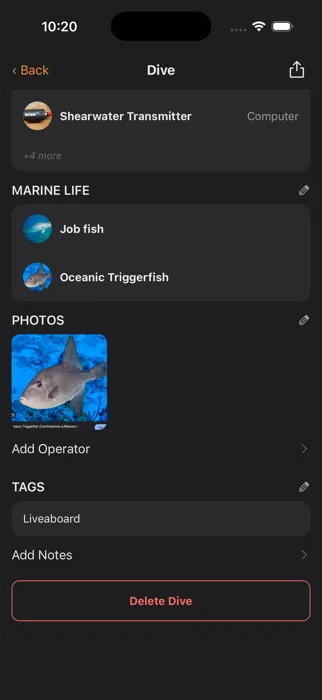
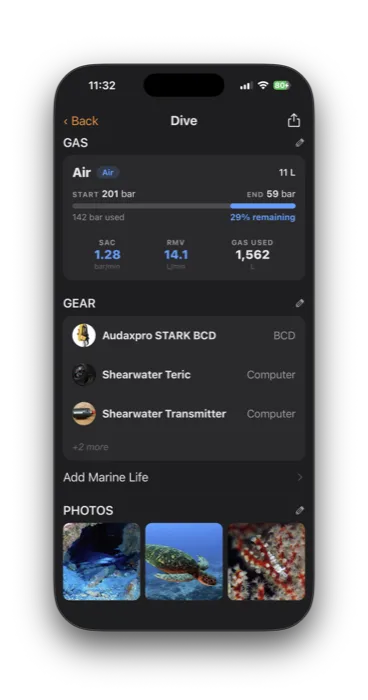
content+fix: address second review pass from the owner
Five fixes/changes from the owner's local browser review of the previous round:

1) System requirements: macOS 12+ -> 15+ (actual minimum for the
   Xcode-compiled build); removed 'Signed & Notarized' from the hero
   meta line and the closing requirements line (table-stakes for any
   distributed Mac app, not worth calling out as a feature).

2) New 'Ready for Instagram' essentials card — surfaces the existing,
   shipped Instagram dive-photo sharing feature. Uses a plain
   share-out glyph rather than the Instagram logo (avoids brand/
   trademark issues on a third-party marketing page).

3) Sync section polish: .syncarrow no longer forces
   text-transform:uppercase, so 'Synced via iCloud' renders in
   sentence case as authored. Swapped the custom two-arrow glyph for
   Phosphor's ArrowsClockwise (regular weight, MIT-licensed, vendored
   inline). Centered the three vendor-chip labels+arrows in the No
   Lock-In section to match the centered 'One Skooba logbook' pill
   below them.

4) img/sync-mobile.webp replaced with a real Gas/Gear/Photos
   dive-detail screenshot (owner-provided, owner-reviewed) — alt text
   updated to match.

5) The world footprint map is no longer a JS-generated illustrative
   dot map; it's now a real satellite map image (img/worldmap.webp,
   owner-provided) with per-country dive-count pins. Removed the
   ~25-line map-generation IIFE and the now-unused #worldmap SVG
   target + .maplabel CSS rule as dead code. This is a deliberate,
[…]

diff --git a/index.html b/index.html
@@ -96,7 +96,7 @@
   .spot p{color:var(--muted);margin-top:15px;font-size:16px}
   /* vendor lock-in diagram */
   .vendors{display:flex;flex-direction:column;gap:12px;align-items:stretch}
-  .vchip{display:flex;align-items:center;justify-content:space-between;gap:12px;padding:14px 18px;border-radius:12px;border:1px solid var(--hair-2);background:rgba(255,255,255,.02);font-family:var(--font-mono);font-size:13.5px;color:var(--muted)}
+  .vchip{display:flex;align-items:center;justify-content:center;gap:12px;padding:14px 18px;border-radius:12px;border:1px solid var(--hair-2);background:rgba(255,255,255,.02);font-family:var(--font-mono);font-size:13.5px;color:var(--muted)}
   .vchip .arrow{color:var(--faint);font-size:15px}
   .vconverge{display:flex;align-items:center;justify-content:center;gap:14px;margin-top:6px;padding:16px;border-radius:12px;border:1px solid var(--orange-line);background:var(--orange-soft);font-family:var(--font-display);font-weight:600;color:var(--orange-2)}
   .vconverge svg{width:20px;height:20px}
@@ -104,7 +104,7 @@
   .syncflow{display:flex;align-items:center;justify-content:center;gap:22px;flex-wrap:wrap}
   .syncflow .device-phone-static{position:relative;right:auto;bottom:auto;width:34%;min-width:150px;max-width:220px;border-radius:24px;overflow:hidden;border:2px solid var(--hair-2);box-shadow:0 30px 60px -20px rgba(0,0,0,.7);background:#091628}
   .syncflow .device{width:52%;min-width:260px}
-  .syncarrow{display:flex;flex-direction:column;align-items:center;gap:6px;color:var(--cyan);font-family:var(--font-mono);font-size:11px;letter-spacing:.1em;text-transform:uppercase}
+  .syncarrow{display:flex;flex-direction:column;align-items:center;gap:6px;color:var(--cyan);font-family:var(--font-mono);font-size:12px;letter-spacing:.02em}
   .syncarrow svg{width:26px;height:26px}
   @media(max-width:760px){.syncflow{flex-direction:column}.syncflow .device,.syncflow .device-phone-static{width:80%;max-width:340px}}
   /* milestone panel */
@@ -123,8 +123,7 @@
   /* world map */
   .mapwrap{margin-top:44px;border-radius:22px;border:1px solid var(--hair);overflow:hidden;position:relative;
     background:radial-gradient(900px 420px at 50% 40%,rgba(79,214,230,.06),transparent 70%),linear-gradient(180deg,#0b1c30,#081524)}
-  .mapwrap svg{display:block;width:100%;height:auto}
-  .maplabel{font-family:var(--font-mono);font-size:11px;fill:var(--muted)}
+  .mapwrap img{display:block;width:100%;height:auto}
   .map-stats{display:flex;gap:0;justify-content:center;flex-wrap:wrap;margin-top:22px;border:1px solid var(--hair);border-radius:14px;overflow:hidden;background:rgba(255,255,255,.015)}
   .map-stats div{padding:15px 26px;border-right:1px solid var(--hair);text-align:center;flex:1 1 auto}
   .map-stats div:last-child{border-right:0}
@@ -197,7 +196,6 @@
       <p class="lede anim a3">A native logbook that captures every dive with real precision — on your Mac and in your pocket — then gives your memories back to you: the milestones, the places, the firsts that made each one matter.</p>
       <div class="hero-meta anim a4">
         <span><b>Mac</b>&nbsp;&amp;&nbsp;<b>iPhone</b></span><span class="dot"></span>
-        <span>Signed&nbsp;&amp;&nbsp;Notarized</span><span class="dot"></span>
         <span><b>English</b>&nbsp;·&nbsp;<b>繁體中文</b></span>
       </div>
       <div class="cta-row anim a5">
@@ -259,9 +257,9 @@
       <p>Surface, and it's already half-logged. Pull the dive off your computer on your phone, drop a pin with your phone's own GPS even when your dive computer has none, jot down what you saw while it's fresh, and snap a photo. Get home, open Skooba on your Mac, and that dive is already there — synced through your own iCloud. Round it out at a proper desk: the marine life you spotted, the gear you dove in, who was down there with you, and the story worth remembering. Change anything, and it syncs straight back to your phone.</p>
     </div>
     <div class="syncflow rise d1" style="margin-top:40px">
-      <div class="device-phone-static"><img class="device-img" src="img/sync-mobile.webp" alt="A dive open on Skooba for iPhone, with the dive computer, marine life sightings, a photo and a tag already logged" /></div>
+      <div class="device-phone-static"><img class="device-img" src="img/sync-mobile.webp" alt="A dive open on Skooba for iPhone, showing gas usage, gear logged for the dive, and photos from underwater" /></div>
       <div class="syncarrow">
-        <svg viewBox="0 0 24 24" fill="none" stroke="currentColor" stroke-width="1.7" stroke-linecap="round" stroke-linejoin="round" aria-hidden="true"><path d="M4 4v5h5M20 20v-5h-5"/><path d="M4 9a8 8 0 0113.6-4.9M20 15a8 8 0 01-13.6 4.9"/></svg>
+        <svg viewBox="0 0 256 256" aria-hidden="true"><polyline points="168 96 216 96 216 48" fill="none" stroke="currentColor" stroke-linecap="round" stroke-linejoin="round" stroke-width="16"/><path d="M216,96,187.72,67.72A88,88,0,0,0,64,67" fill="none" stroke="currentColor" stroke-linecap="round" stroke-linejoin="round" stroke-width="16"/><polyline points="88 160 40 160 40 208" fill="none" stroke="currentColor" stroke-linecap="round" stroke-linejoin="round" stroke-width="16"/><path d="M40,160l28.28,28.28A88,88,0,0,0,192,189" fill="none" stroke="currentColor" stroke-linecap="round" stroke-linejoin="round" stroke-width="16"/></svg>
         Synced via iCloud
       </div>
       <div class="device"><div class="device-bar"><span class="tl r"></span><span class="tl y"></span><span class="tl g"></span><span class="device-title">Notes — Skooba for Mac</span></div><img class="device-img" src="img/sync-desktop.webp" alt="The same dive in Skooba for Mac's Notes tab, with a journal entry about four hammerhead sharks seen on the dive" /></div>
@@ -298,7 +296,7 @@
       <h2>Everywhere you've been below the surface.</h2>
       <p>Every site you've ever dived, pinned on one map — the same map whether you're on your Mac or your phone. Watch your world fill in — reef by reef, country by country — and relive the trips behind it.</p>
     </div>
-    <div class="mapwrap rise d1"><svg id="worldmap" viewBox="0 0 1000 470" role="img" aria-label="A world map of dive sites"></svg></div>
+    <div class="mapwrap rise d1"><img src="img/worldmap.webp" alt="A world map with pins marking every country the owner has dived in, sized by number of dives" /></div>
     <div class="map-stats rise d2">
       <div><div class="n">11</div><div class="l">countries</div></div>
       <div><div class="n">336</div><div class="l">dive sites</div></div>
@@ -323,6 +321,7 @@
       <div class="feat rise d1"><div class="ficon"><svg viewBox="0 0 24 24"><path d="M12 21s7-6.2 7-11a7 7 0 10-14 0c0 4.8 7 11 7 11z"/><circle cx="12" cy="10" r="2.4"/></svg></div><h3>Sites, life &amp; gear</h3><p>Catalog your dive sites, the marine life you saw, your kit and your certifications — all cross-linked.</p></div>
       <div class="feat rise d2"><div class="ficon"><svg viewBox="0 0 24 24"><path d="M3 5h18M3 12h18M3 19h18"/><circle cx="8" cy="5" r="1.6"/><circle cx="15" cy="12" r="1.6"/><circle cx="11" cy="19" r="1.6"/></svg></div><h3>Statistics that surprise</h3><p>Slice your diving any way you like — depth, gas, buddies, seasons — and spot the patterns of a lifetime.</p></div>
       <div class="feat rise d3"><div class="ficon"><svg viewBox="0 0 24 24"><ellipse cx="12" cy="6" rx="8" ry="3"/><path d="M4 6v12c0 1.7 3.6 3 8 3s8-1.3 8-3V6M4 12c0 1.7 3.6 3 8 3s8-1.3 8-3"/></svg></div><h3>Backup &amp; restore</h3><p>One file holds your entire logbook — dives, photos, everything. Move it between your own Macs any time.</p></div>
+      <div class="feat rise d1"><div class="ficon"><svg viewBox="0 0 24 24"><path d="M12 15V3m0 0l-4 4m4-4l4 4"/><path d="M4 13v6a2 2 0 002 2h12a2 2 0 002-2v-6"/></svg></div><h3>Ready for Instagram</h3><p>Pair a dive's stats with your favorite photo and share the moment straight to Instagram — no exporting, no extra apps.</p></div>
     </div>
   </div>
 </section>
@@ -353,7 +352,7 @@
     <div class="cta-row rise d2" style="justify-content:center;margin-top:24px">
       <span class="soon-tag"><span class="pulse"></span> Currently in Beta</span>
     </div>
-    <div class="dl-meta rise d3">Apple Silicon · macOS 12+ · iOS 16+ · signed &amp; notarized</div>
+    <div class="dl-meta rise d3">Apple Silicon · macOS 15+ · iOS 16+</div>
   </div>
 </section>
 
@@ -372,30 +371,6 @@
   const io=new IntersectionObserver((es)=>{es.forEach(e=>{if(e.isIntersecting){e.target.classList.add('in');io.unobserve(e.target)}})},{threshold:.14});
   document.querySelectorAll('.rise').forEach(el=>io.observe(el));
 
-  // generative dot world-map (real low-res land mask) + dive-site pins + trip arcs
-  (function(){
-    const svg=document.getElementById('worldmap'); if(!svg) return;
-    const W=1000,H=470,COLS=72, X=lon=>(lon+180)*(W/360), Y=lat=>(90-lat)*(H/180);
-    const cx=c=>((c+0.5)/COLS)*W, ry=r=>Y(79.5-5*r);
-    // land cells [row,colStart,colEnd] on a 72-col×28-row equirectangular grid (hand-traced world)
-    const LAND=[[1,12,18],[1,30,34],[2,2,6],[2,8,20],[2,30,33],[2,46,64],[3,3,20],[3,31,33],[3,38,66],[4,4,20],[4,36,68],[5,4,21],[5,34,34],[5,36,68],[6,5,21],[6,34,44],[6,45,66],[6,69,70],[7,6,21],[7,34,46],[7,47,64],[8,8,21],[8,34,46],[8,47,63],[9,9,21],[9,34,49],[9,50,52],[9,54,62],[10,11,21],[10,34,47],[10,49,53],[10,54,61],[11,13,20],[11,34,47],[11,49,53],[11,55,61],[12,14,19],[12,34,46],[12,50,53],[12,55,58],[12,60,60],[13,16,19],[13,33,47],[13,50,52],[13,55,58],[13,60,61],[14,17,19],[14,21,25],[14,33,47],[14,51,51],[14,55,58],[14,60,61],[15,21,26],[15,34,47],[15,54,57],[15,58,59],[15,60,60],[16,22,28],[16,35,47],[16,54,56],[16,58,61],[16,63,66],[17,22,29],[17,37,47],[17,55,58],[17,60,61],[17,63,66],[18,22,29],[18,38,46],[18,56,60],[18,63,66],[19,23,29],[19,38,45],[19,47,48],[19,60,67],[20,23,28],[20,38,44],[20,47,48],[20,59,68],[21,24,28],[21,39,44],[21,59,68],[22,24,27],[22,40,43],[22,59,67],[23,24,26],[23,40,42],[23,60,66],[24,24,26],[24,64,65],[24,69,71],[25,24,25],[25,69,70],[26,24,25]];
-    let s='';
-    for(let x=0;x<=W;x+=W/12) s+=`<line x1="${x}" y1="0" x2="${x}" y2="${H}" stroke="rgba(147,164,184,.05)"/>`;
-    for(let y=0;y<=H;y+=H/6) s+=`<line x1="0" y1="${y}" x2="${W}" y2="${y}" stroke="rgba(147,164,184,.05)"/>`;
-    s+=`<line x1="0" y1="${H/2}" x2="${W}" y2="${H/2}" stroke="rgba(79,214,230,.12)" stroke-dasharray="2 6"/>`;
-    LAND.forEach(([r,a,b])=>{const y=ry(r).toFixed(0);for(let c=a;c<=b;c++) s+=`<circle cx="${cx(c).toFixed(0)}" cy="${y}" r="2" fill="#2f5a7d"/>`;});
-    const P=[[35,22,'Red Sea',9,'end'],[73,3,'Maldives',6,'end'],[130,-1,'Raja Ampat',10,'end'],[134,7,'Palau',7,'start'],[147,-18,'Great Barrier Reef',7,'end'],[-87,20,'Cozumel',6,'start'],[-91,0,'Galápagos',6,'start'],[122,13,'Philippines',6,'start']].map(([lo,la,l,sz,a])=>({x:X(lo),y:Y(la),l,sz,a}));
-    [[0,1],[1,2],[2,3],[3,7],[5,6]].forEach(([a,b])=>{const p=P[a],q=P[b],mx=(p.x+q.x)/2,my=Math.min(p.y,q.y)-42;
-      s+=`<path d="M${p.x.toFixed(0)} ${p.y.toFixed(0)} Q ${mx.toFixed(0)} ${my.toFixed(0)} ${q.x.toFixed(0)} ${q.y.toFixed(0)}" fill="none" stroke="#F78B34" stroke-width="1" opacity=".24" stroke-dasharray="3 5"/>`;});
-    P.forEach(({x,y,l,sz,a})=>{
-      s+=`<circle cx="${x.toFixed(0)}" cy="${y.toFixed(0)}" r="${sz+7}" fill="#F78B34" opacity=".13"/>`;
-      s+=`<circle cx="${x.toFixed(0)}" cy="${y.toFixed(0)}" r="${(sz/2+2).toFixed(1)}" fill="#F78B34"/>`;
-      s+=`<circle cx="${x.toFixed(0)}" cy="${y.toFixed(0)}" r="${(sz/2+2).toFixed(1)}" fill="none" stroke="#ffd9b0" stroke-width="1" opacity=".55"/>`;
-      const tx=a==='end'?x-10:x+11;
-      s+=`<text class="maplabel" x="${tx.toFixed(0)}" y="${(y+4).toFixed(0)}" text-anchor="${a}">${l}</text>`;
-    });
-    svg.innerHTML=s;
-  })();
 </script>
 </body>
 </html>
